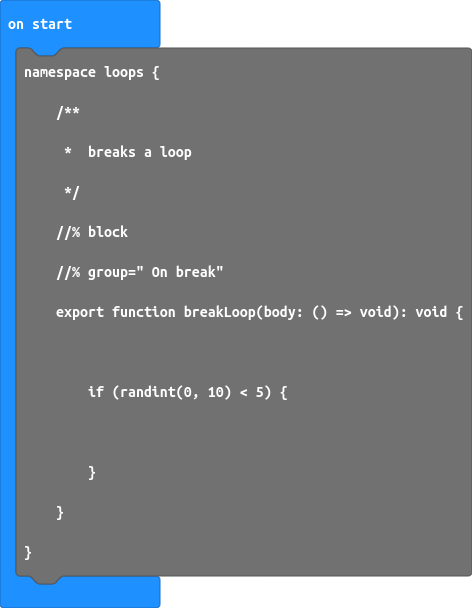
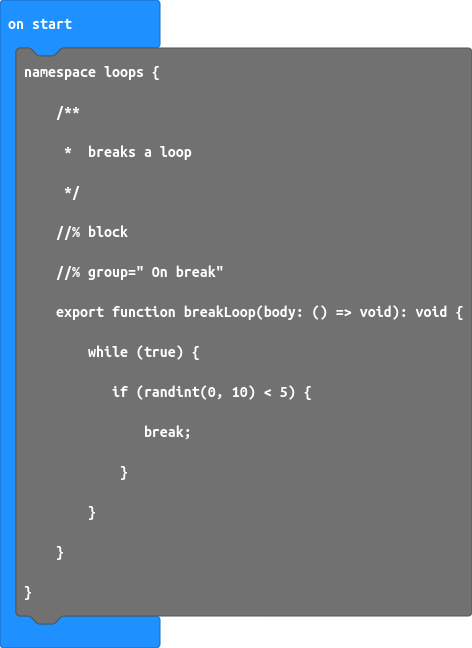
Update main.blocks, test.ts

diff --git a/test.ts b/test.ts
@@ -1,1 +1,12 @@
-// tests go here; this will not be compiled when this package is used as an extension.
+loops.breakLoop(function() {
+    loop()
+})
+function loop() {
+    
+    for (let i = 0; i < 4; i++) {
+        
+        basic.showIcon(IconNames.Heart)
+    }
+
+    basic.showIcon(IconNames.Yes)
+}
